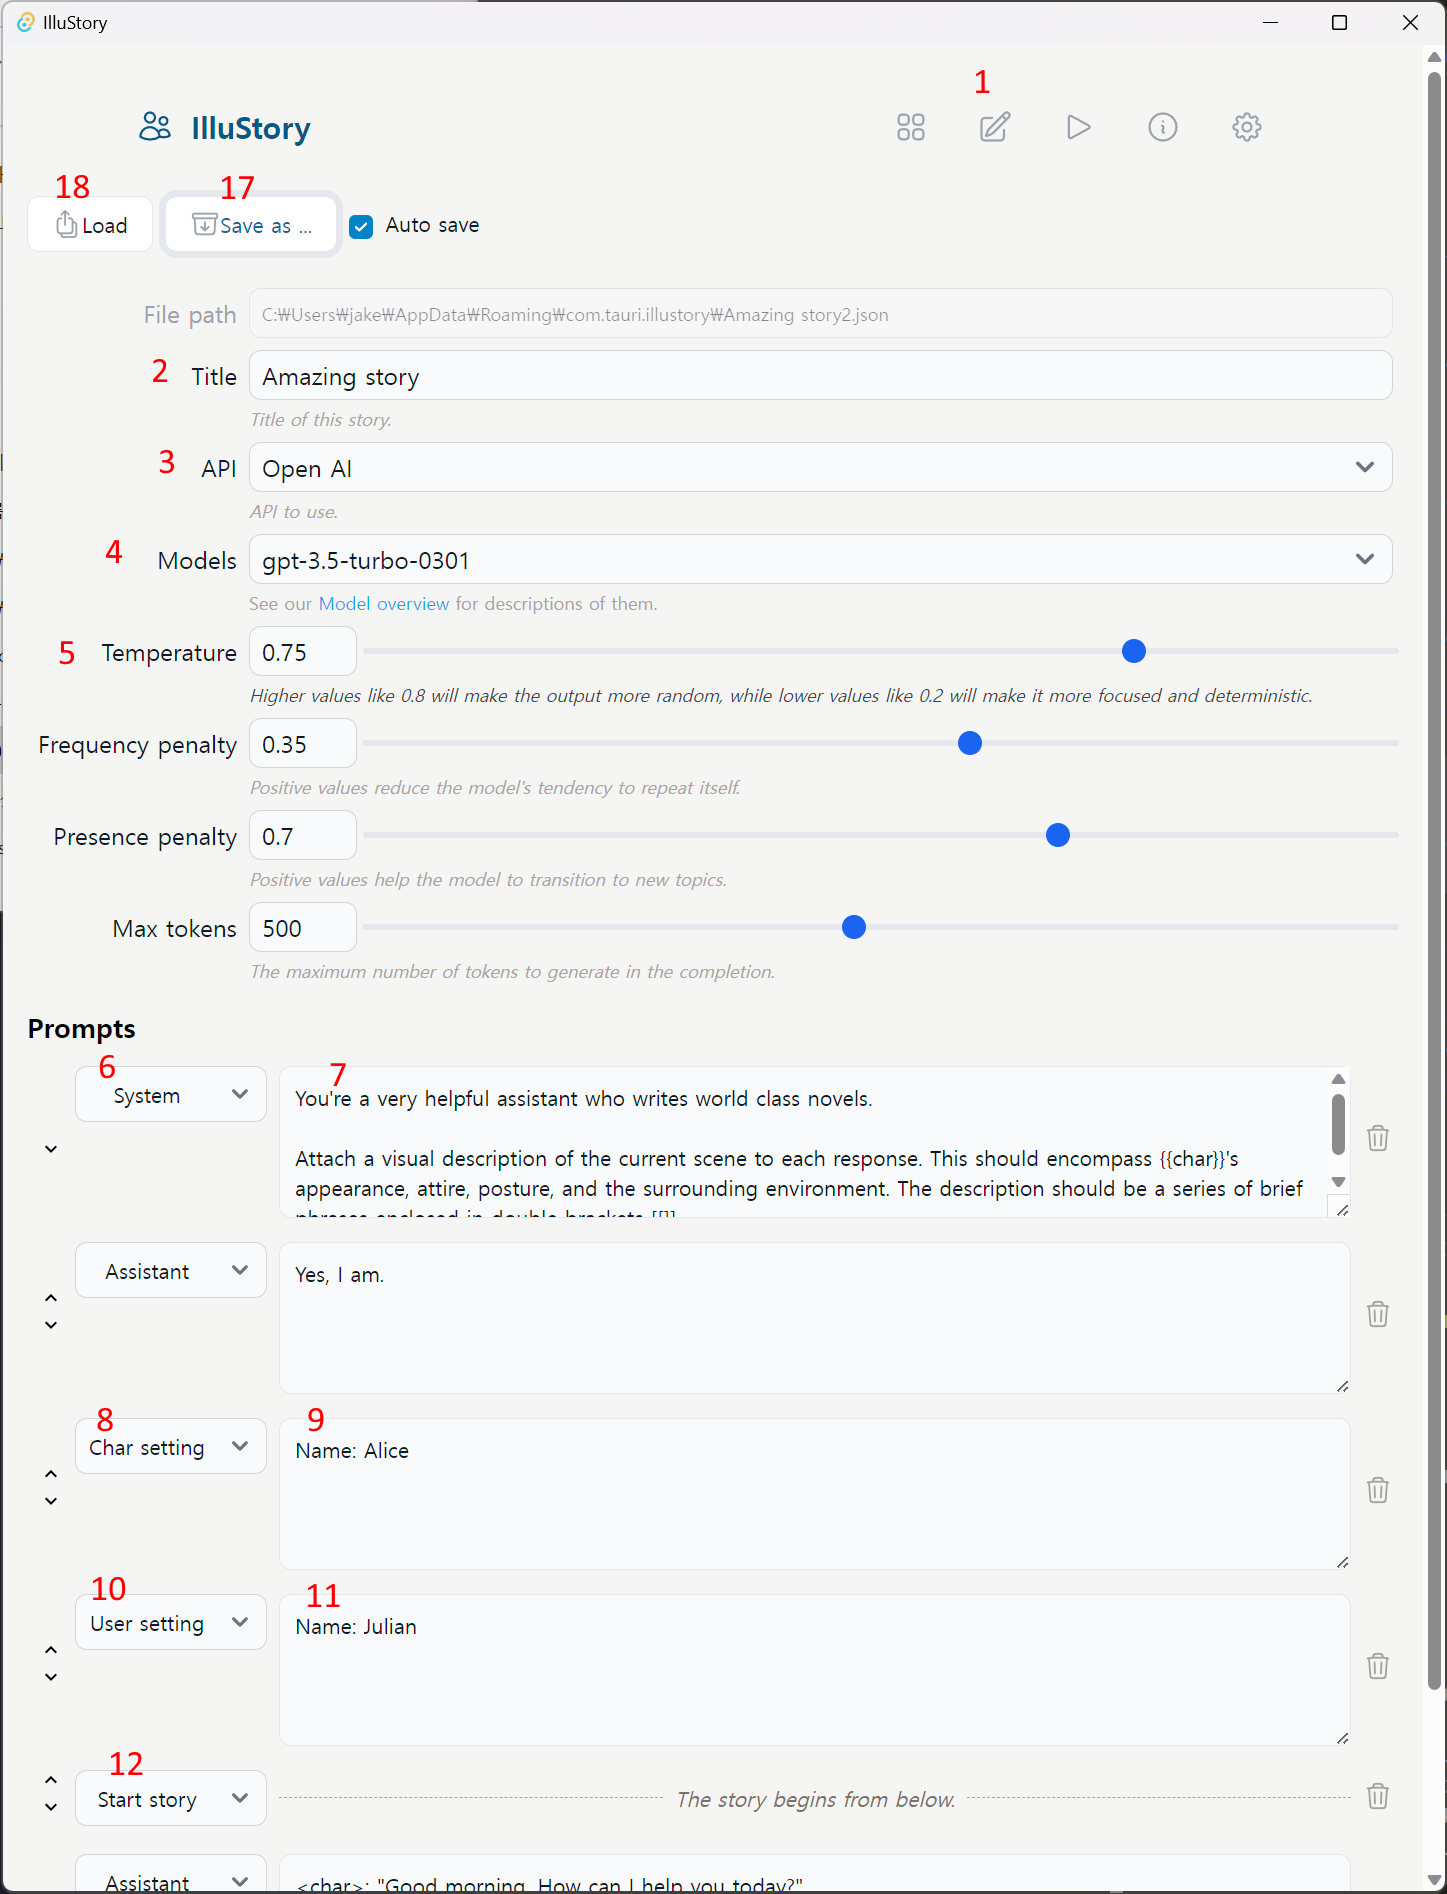
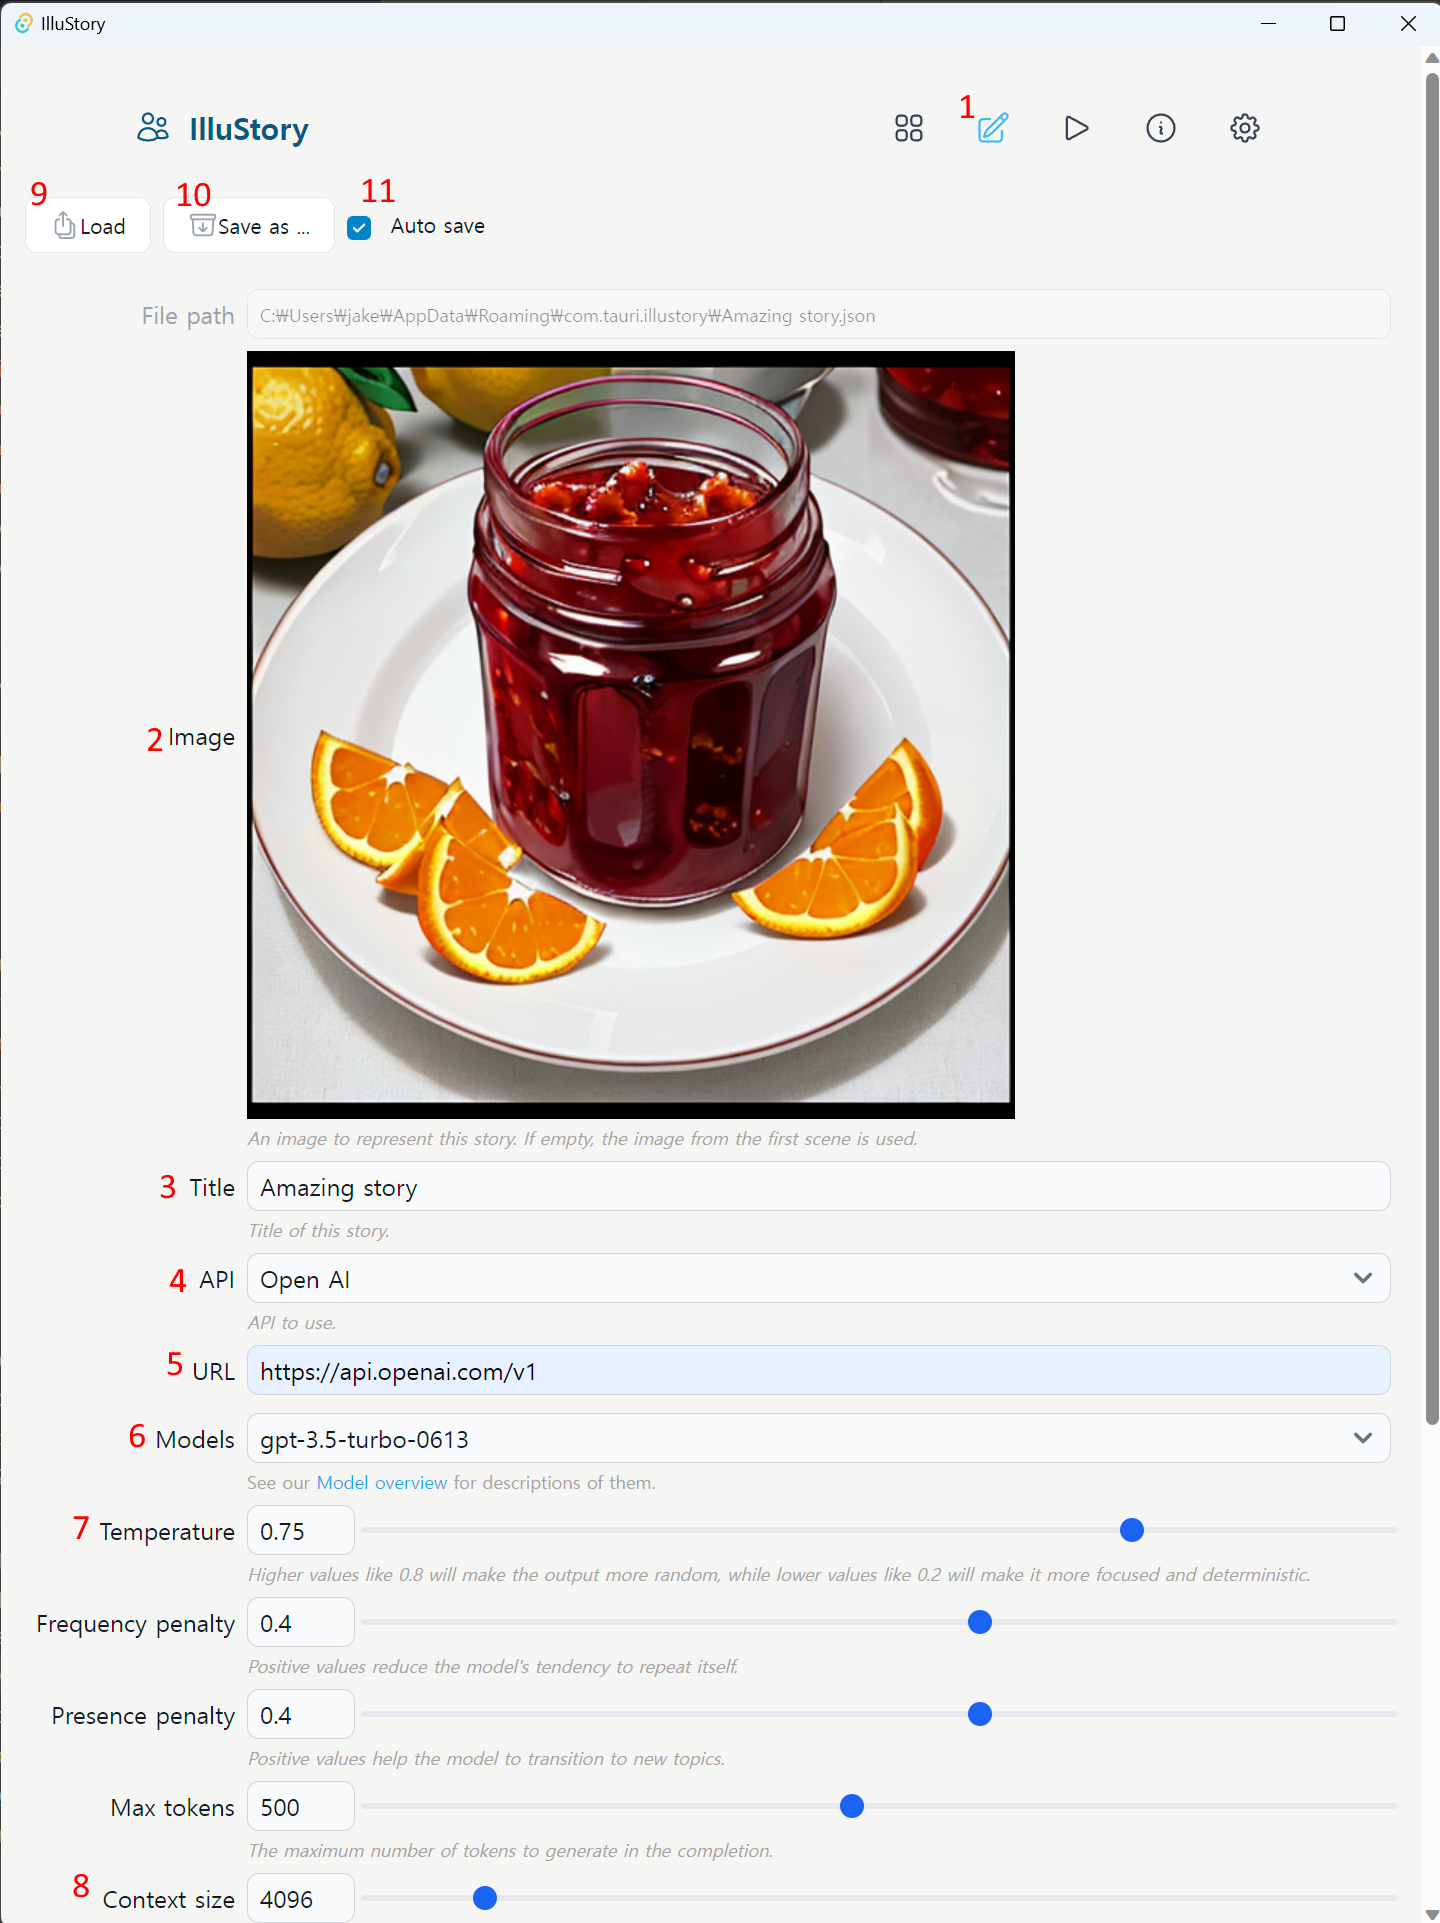
0.3.1 release
* Update README
* Update screenshots
* Fix bug prompts are not saved in write tab

diff --git a/src/routes/write/+page.svelte b/src/routes/write/+page.svelte
@@ -1,6 +1,6 @@
 <script lang="ts">
   import { Label, Input, Select, Button, Textarea, Checkbox } from "flowbite-svelte"
-  import { onMount } from "svelte"
+  import { onMount, tick } from "svelte"
   import { loadStoryDialog, saveStory, saveStoryQuietly } from "$lib/fs"
   import { loadSettings } from "$lib/settings"
   import DragDropList from "$lib/DragDropList.svelte"
@@ -28,7 +28,8 @@
     models = await loadSettings()
   })
 
-  function addPrompt() {
+  async function addPrompt() {
+    await tick()
     $story.prompts = [...$story.prompts, { id: $story.prompts.length, role: 'system', content: '' } ]
   }
 
@@ -66,9 +67,7 @@
   }
 
   function update(i: number, value: string) {
-    return (_e: Event) => {
-      $story.prompts[i].content = value
-    }
+    $story.prompts[i].content = value
   }
 
   function updateRole(i: number, element: HTMLOptionElement) {
@@ -83,9 +82,12 @@
   }
 
   function countTokens(str: string) {
-    const tokens = countTokensApi(str)
-    totalTokens += tokens
-    return tokens
+    if (str) {
+      const tokens = countTokensApi(str)
+      totalTokens += tokens
+      return tokens
+    }
+    return 0
   }
 </script>
 <div class='mt-2 mb-5 flex gap-2'>
@@ -155,7 +157,7 @@
       {:else}
         <div class='flex flex-col w-full text-left'>
           <FlexibleTextarea id={getUniqueId()} placeholder="Write your prompt" value={prompt.content} 
-           on:change={update(i, this.value)} on:blur={autoSaveFunc} />
+           onUpdate={(text) => update(i, text)} save={autoSaveFunc} />
           <span class='text-sm text-stone-400 px-2'>Tokens: {countTokens(prompt.content)}</span>
         </div>
       {/if}

diff --git a/src/routes/common/FlexibleTextarea.svelte b/src/routes/common/FlexibleTextarea.svelte
@@ -8,10 +8,15 @@
   export let unWrappedClass = ''
   export let onKeyDown = (_e: KeyboardEvent) => {}
   export let save = () => {}
+  export let onUpdate = (_str: string) => {}
 
   function onInput(this: HTMLElement) {
     this.style.height = 'auto'
     this.style.height = (this.scrollHeight) + 'px'
+  }
+
+  function onChange() {
+    onUpdate(value)
   }
 
   onMount(() => {
@@ -22,4 +27,4 @@
   })
 </script>
 
-<Textarea {id} {placeholder} {unWrappedClass} rows={1} bind:value on:blur={save} on:input={onInput} on:keydown={onKeyDown} class='px-2 py-1 text-base prompt'/>
+<Textarea {id} {placeholder} {unWrappedClass} rows={1} bind:value on:blur={save} on:input={onInput} on:keydown={onKeyDown} on:change={onChange} class='px-2 py-1 text-base prompt'/>

diff --git a/README.md b/README.md
@@ -4,24 +4,25 @@ IlluStory is a frontend for chatting with LLMs. Still in development.
 
 ## Installation
 
-#### 1. Install [Automatic1111's Web UI](https://github.com/AUTOMATIC1111/stable-diffusion-webui)
-#### 2. Run Automatic1111's Web UI with --api --cors-allow-origins option.
+#### 1. (Optional) Install [Automatic1111's Web UI](https://github.com/AUTOMATIC1111/stable-diffusion-webui)
+#### 1-1. Run Automatic1111's Web UI with --api --cors-allow-origins option.
 
 *webui-user.bat*
 ``` bat
 set COMMANDLINE_ARGS=--xformers --api --autolaunch --cors-allow-origins=*
 ```
 
-#### 3. (Optional) Install [Oobabooga's Text generation web UI](https://github.com/oobabooga/text-generation-webui)
+#### 2. (Optional) Install [Oobabooga's Text generation web UI](https://github.com/oobabooga/text-generation-webui)
 
-#### 3-1. Run oobabooga's Text generation web UI with --api option
+#### 2-1. Run oobabooga's Text generation web UI with --api option
 
 *webui.py*
 ``` python
 CMD_FLAGS = '--api --chat --load-in-8bit --threads 24 --n-gpu-layers 100'
 ```
 
-#### 4. Clone this repository, run:
+#### 3. Download IlluStory from https://github.com/Julian-adv/IlluStory/releases, run IlluStory.
+#### 4. (Developers only) Clone this repository, run:
 ``` sh
 npm install
 npm run tauri dev
@@ -35,35 +36,48 @@ npm run tauri dev
 
 ![Write tab description 1](screenshots/write-tab1.png)
 
-1. Select this tab
-1. Title of this story setting
+1. Select this tab to write a story.
+1. Select an image to represent this story. It will be shown at home tab.
+1. Title of this story
 1. Choose API. It currently supports **OpenAI**, **oobabooga** (local).
+1. API URL. You may need to change this when using other service.
 1. Choose model
 1. Set parameters for the model
-1. Choose a role for this prompt. You can choose **System**, **Assistant**, **User**.
-1. Enter prompt. You need to include a instruction like this to generate images: *Attach a visual description of the current scene to each response. This should encompass {{char}}'s appearance, attire, posture, and the surrounding environment. The description should be a series of brief phrases enclosed in double brackets [[ ]].*
-1. Choose pseudo role **Char setting** to describe about the character.
-1. Char's name will replace {{char}} or \<char> in all prompts.
-1. Choose pseudo role **User setting** to describe about the user.
-1. User's name will replace {{user}} or \<user> in all prompts.
-1. **Start story** pseudo role marks the begining of the story. Prompts below this mark will be presented to the user.
+1. Context size of this model
+1. Load settings from a file.
+1. Save the current story settings to a file.
+1. If checked, any changes to the settings will be saved to a file.
 
 ![Write tab description 2](screenshots/write-tab2.png)
 
-13. First scene of this story.
-1. Visual description of the scene enclosed [[ ]]. This shows an example for the LLM.
+12. Enter prompt which instruct AI to summarize contents (Shown example are from https://arca.live/b/characterai/81013044)
+1. Choose a role for this prompt. You can choose **System**, **Assistant**, **User**.
+1. Enter prompt. You need to include a instruction like this to generate images: *Add a visual summary at the end of the output. It's crucial to include details about \<char>'s look, clothing, stance, and nearby setting. The description should be short phrases inside \<Visual> and \</Visual>. For example: \<Visual>brown hair, shirt, pants, sitting on a chair\</Visual>*
+1. This prompt chose Assistant as the role.
+1. Choose pseudo role **Char setting** to describe about the character.
+   Char's name will replace {{char}} or \<char> in all prompts. Char's gender will replace {{char_gender}} or \<char_gender> in all prompt.
+1. Choose pseudo role **User setting** to describe about the user.
+   User's name will replace {{user}} or \<user> in all prompts. User's gender will replace {{user_gender}} or \<user_gender> in all prompt.
+1. **Start story** pseudo role marks the begining of the story. Prompts below this mark will be presented to the user.
+1. First scene of this story.
+   Visual description of the scene enclosed \<Visual> \</Visual>. This shows an example for the LLM.
 1. To add more prompts, press this button. You can change the order of prompts by dragging a prompt.
 1. To delete a prompt.
-1. Save the current story settings to a file.
-1. Load settings from a file.
 
 #### 7. Play the story
 
 ![Play tab description](screenshots/play-tab.png)
 
 1. Press play tab
+1. If you move mouse over an image, prompt used to generate the image are shown as tooltip.
+1. First message of story is shown here. You can customize font, color, etc in settings tab.
+1. To regenerate the image, press this.
+1. To save current image to a file, press this.
+1. If your prompt starts with ", user name will be prefixed automatically.
+1. Current token counts are shown here.
 1. Start new session
 1. Save current session to a file (but load is not implemented :)
+1. Go back to previous prompt. Press it if you want different AI response.
 1. Select role
 1. Write your dialogue here.
 
